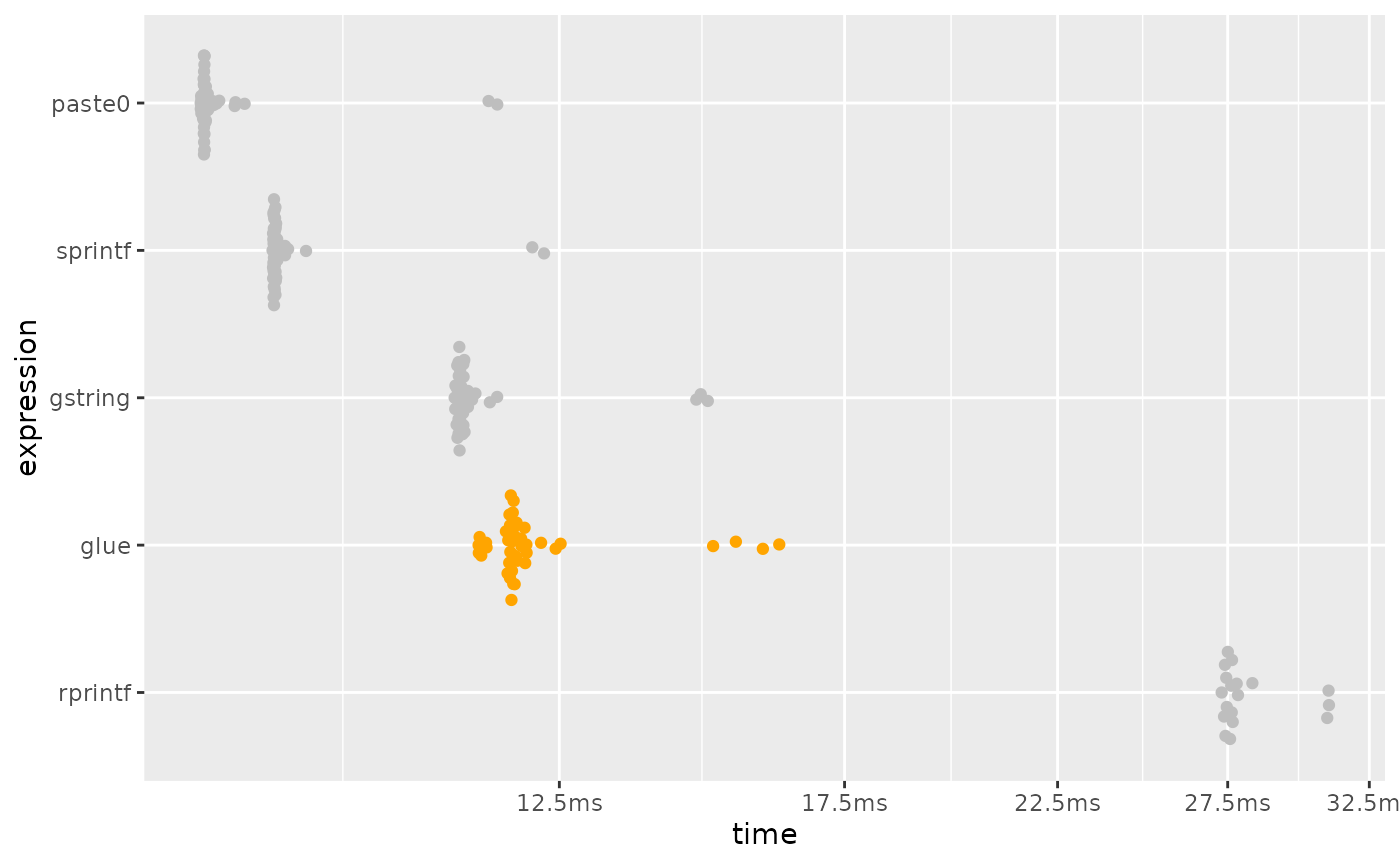
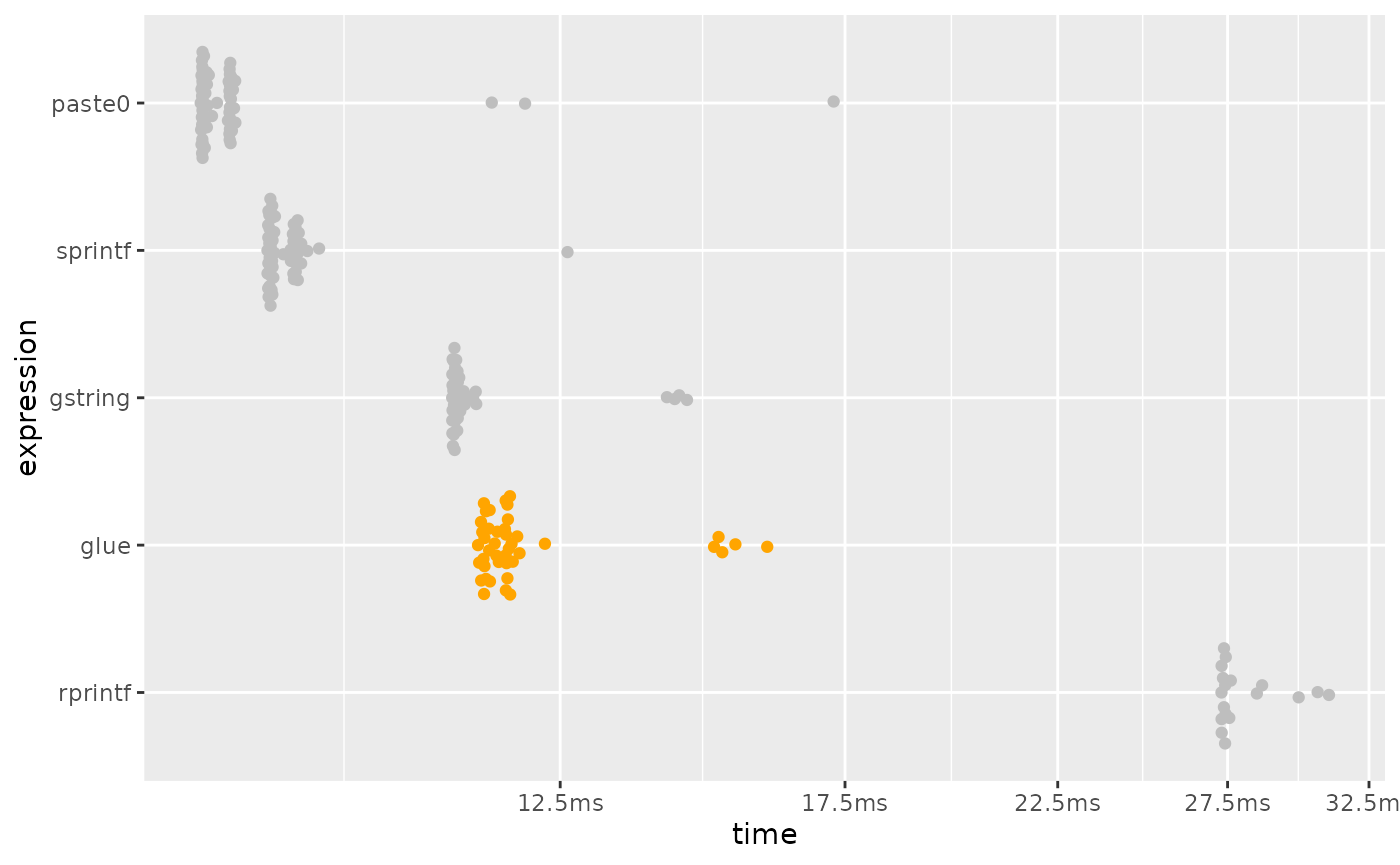
Deploying to gh-pages from @ tidyverse/glue@73bfc85c58d23df0b72d3bb10ce9d2fd1d8df69b 🚀

diff --git a/dev/articles/speed.html b/dev/articles/speed.html
@@ -153,11 +153,11 @@ this benchmark, but is now formally marked as “superseded”, in favor of
 <span><span class="co">#&gt; <span style="color: #949494;"># A tibble: 5 × 6</span></span></span>
 <span><span class="co">#&gt;   expression      min   median `itr/sec` mem_alloc `gc/sec`</span></span>
 <span><span class="co">#&gt;   <span style="color: #949494; font-style: italic;">&lt;bch:expr&gt;</span> <span style="color: #949494; font-style: italic;">&lt;bch:tm&gt;</span> <span style="color: #949494; font-style: italic;">&lt;bch:tm&gt;</span>     <span style="color: #949494; font-style: italic;">&lt;dbl&gt;</span> <span style="color: #949494; font-style: italic;">&lt;bch:byt&gt;</span>    <span style="color: #949494; font-style: italic;">&lt;dbl&gt;</span></span></span>
-<span><span class="co">#&gt; <span style="color: #BCBCBC;">1</span> sprintf    761.01ns 872.07ns  1<span style="text-decoration: underline;">086</span>410.        0B     0   </span></span>
-<span><span class="co">#&gt; <span style="color: #BCBCBC;">2</span> paste0       1.52µs   1.72µs   <span style="text-decoration: underline;">545</span>545.        0B    54.6 </span></span>
-<span><span class="co">#&gt; <span style="color: #BCBCBC;">3</span> glue        98.41µs 103.81µs     <span style="text-decoration: underline;">9</span>386.  141.72KB    25.1 </span></span>
-<span><span class="co">#&gt; <span style="color: #BCBCBC;">4</span> gstring    223.17µs 231.46µs     <span style="text-decoration: underline;">4</span>225.    2.45MB    14.7 </span></span>
-<span><span class="co">#&gt; <span style="color: #BCBCBC;">5</span> rprintf    275.85µs 282.38µs     <span style="text-decoration: underline;">3</span>479.  503.39KB     8.22</span></span>
+<span><span class="co">#&gt; <span style="color: #BCBCBC;">1</span> sprintf    761.01ns 862.05ns  1<span style="text-decoration: underline;">085</span>533.        0B   109.  </span></span>
+<span><span class="co">#&gt; <span style="color: #BCBCBC;">2</span> paste0       1.53µs   1.67µs   <span style="text-decoration: underline;">574</span>061.        0B     0   </span></span>
+<span><span class="co">#&gt; <span style="color: #BCBCBC;">3</span> glue        94.65µs 100.75µs     <span style="text-decoration: underline;">9</span>743.  141.72KB    24.4 </span></span>
+<span><span class="co">#&gt; <span style="color: #BCBCBC;">4</span> gstring    219.64µs 229.42µs     <span style="text-decoration: underline;">4</span>270.    2.45MB    16.8 </span></span>
+<span><span class="co">#&gt; <span style="color: #BCBCBC;">5</span> rprintf    277.26µs 282.99µs     <span style="text-decoration: underline;">3</span>480.  503.39KB     8.22</span></span>
 <span></span>
 <span><span class="co"># plotting function defined in a hidden chunk</span></span>
 <span><span class="fu">plot_comparison</span><span class="op">(</span><span class="va">simple</span><span class="op">)</span></span>
@@ -206,11 +206,11 @@ performance is much closer to that of <code><a href="https://rdrr.io/r/base/past
 <span><span class="co">#&gt; <span style="color: #949494;"># A tibble: 5 × 6</span></span></span>
 <span><span class="co">#&gt;   expression      min   median `itr/sec` mem_alloc `gc/sec`</span></span>
 <span><span class="co">#&gt;   <span style="color: #949494; font-style: italic;">&lt;bch:expr&gt;</span> <span style="color: #949494; font-style: italic;">&lt;bch:tm&gt;</span> <span style="color: #949494; font-style: italic;">&lt;bch:tm&gt;</span>     <span style="color: #949494; font-style: italic;">&lt;dbl&gt;</span> <span style="color: #949494; font-style: italic;">&lt;bch:byt&gt;</span>    <span style="color: #949494; font-style: italic;">&lt;dbl&gt;</span></span></span>
-<span><span class="co">#&gt; <span style="color: #BCBCBC;">1</span> paste0       8.19ms   8.22ms     121.    781.3KB     4.18</span></span>
-<span><span class="co">#&gt; <span style="color: #BCBCBC;">2</span> sprintf      8.91ms   8.94ms     112.    781.3KB     4.14</span></span>
-<span><span class="co">#&gt; <span style="color: #BCBCBC;">3</span> gstring     11.05ms  11.13ms      89.6    1.53MB     6.56</span></span>
-<span><span class="co">#&gt; <span style="color: #BCBCBC;">4</span> glue        11.36ms  11.83ms      84.5    2.29MB     9.14</span></span>
-<span><span class="co">#&gt; <span style="color: #BCBCBC;">5</span> rprintf      27.3ms  27.58ms      36.2    3.05MB     7.25</span></span>
+<span><span class="co">#&gt; <span style="color: #BCBCBC;">1</span> paste0       8.18ms   8.23ms     120.    781.3KB     6.44</span></span>
+<span><span class="co">#&gt; <span style="color: #BCBCBC;">2</span> sprintf      8.85ms   8.91ms     111.    781.3KB     2.02</span></span>
+<span><span class="co">#&gt; <span style="color: #BCBCBC;">3</span> gstring        11ms  11.05ms      90.3    1.53MB     9.03</span></span>
+<span><span class="co">#&gt; <span style="color: #BCBCBC;">4</span> glue        11.34ms  11.61ms      86.1    2.29MB    11.6 </span></span>
+<span><span class="co">#&gt; <span style="color: #BCBCBC;">5</span> rprintf      27.3ms  27.42ms      36.1    3.05MB     4.51</span></span>
 <span></span>
 <span><span class="co"># plotting function defined in a hidden chunk</span></span>
 <span><span class="fu">plot_comparison</span><span class="op">(</span><span class="va">vectorized</span><span class="op">)</span></span></code></pre></div>

diff --git a/dev/reference/glue.html b/dev/reference/glue.html
@@ -155,7 +155,7 @@ syntactic elements), when parsing the expression string. Setting <code>.literal 
 
 
 <dt id="arg--transformer">.transformer<a class="anchor" aria-label="anchor" href="#arg--transformer"></a></dt>
-<dd><p>[<code>function]</code><br> A function taking two arguments, <code>text</code>
+<dd><p>[<code>function</code>]<br> A function taking two arguments, <code>text</code>
 and <code>envir</code>, where <code>text</code> is the unparsed string inside the glue block and
 <code>envir</code> is the execution environment. A <code>.transformer</code> lets you modify a
 glue block before, during, or after evaluation, allowing you to create your
